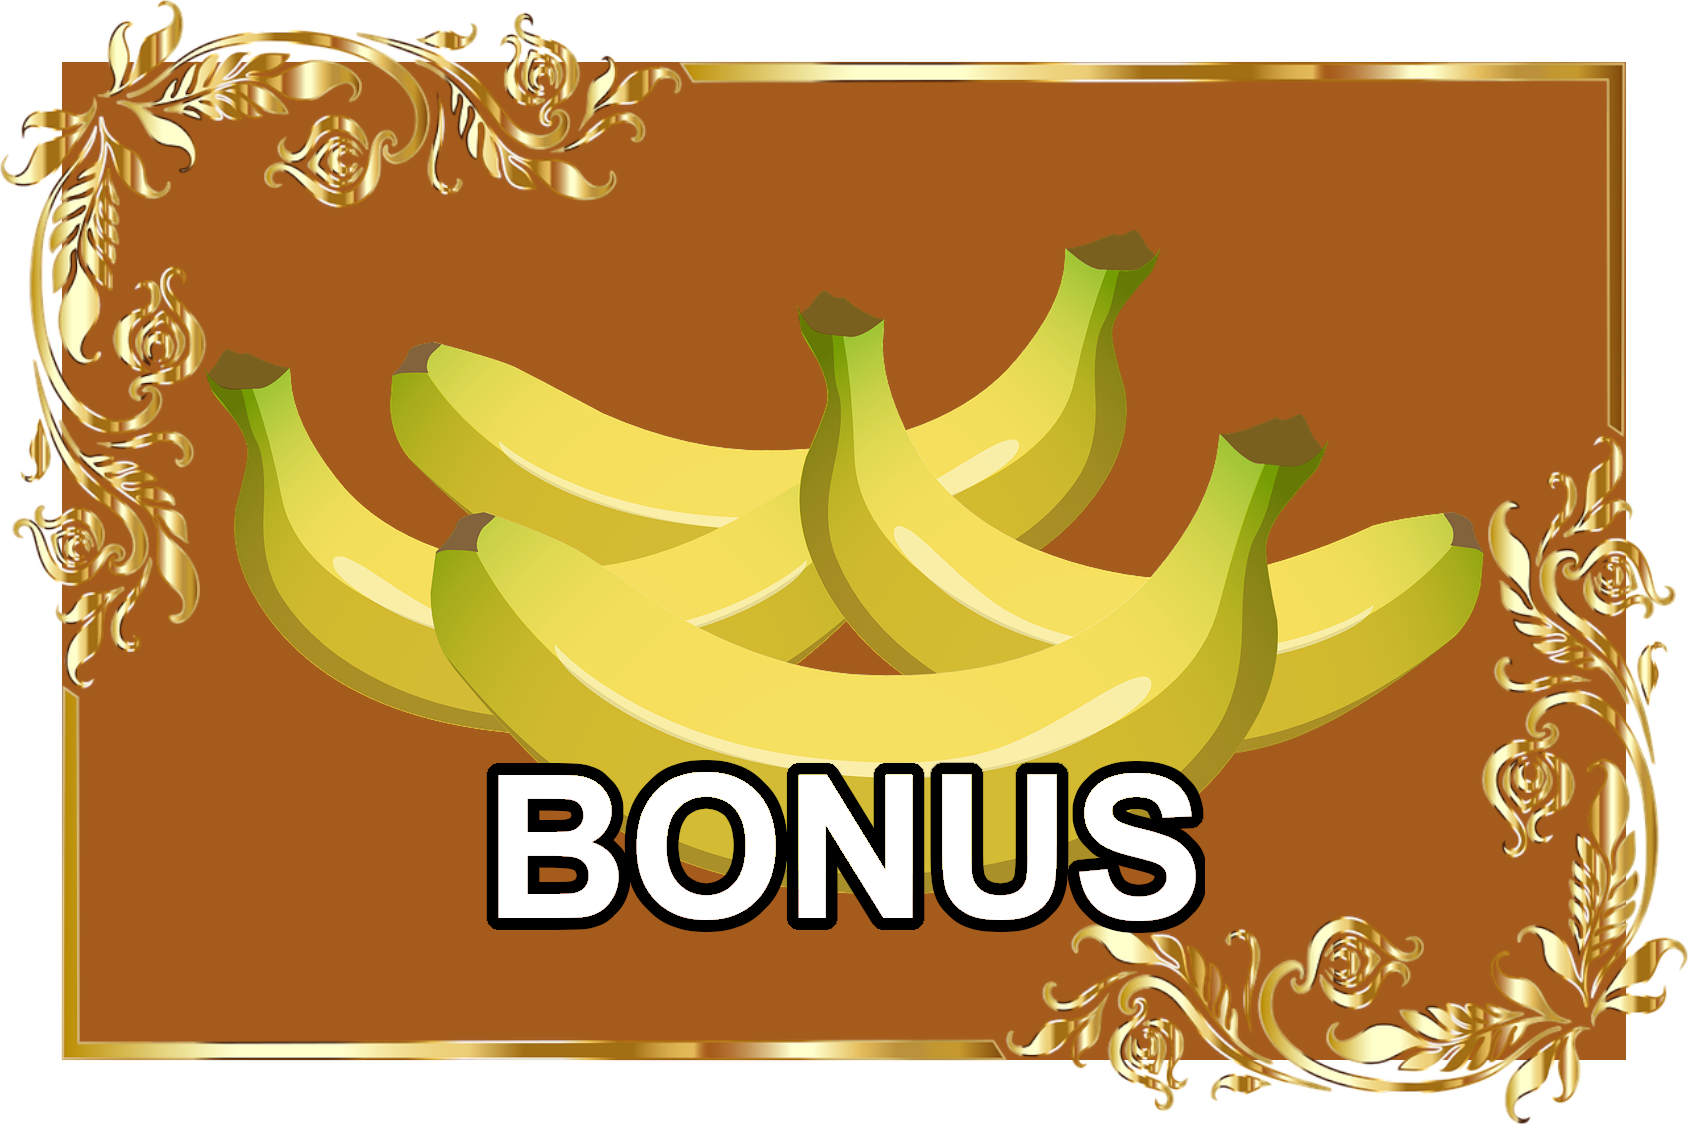
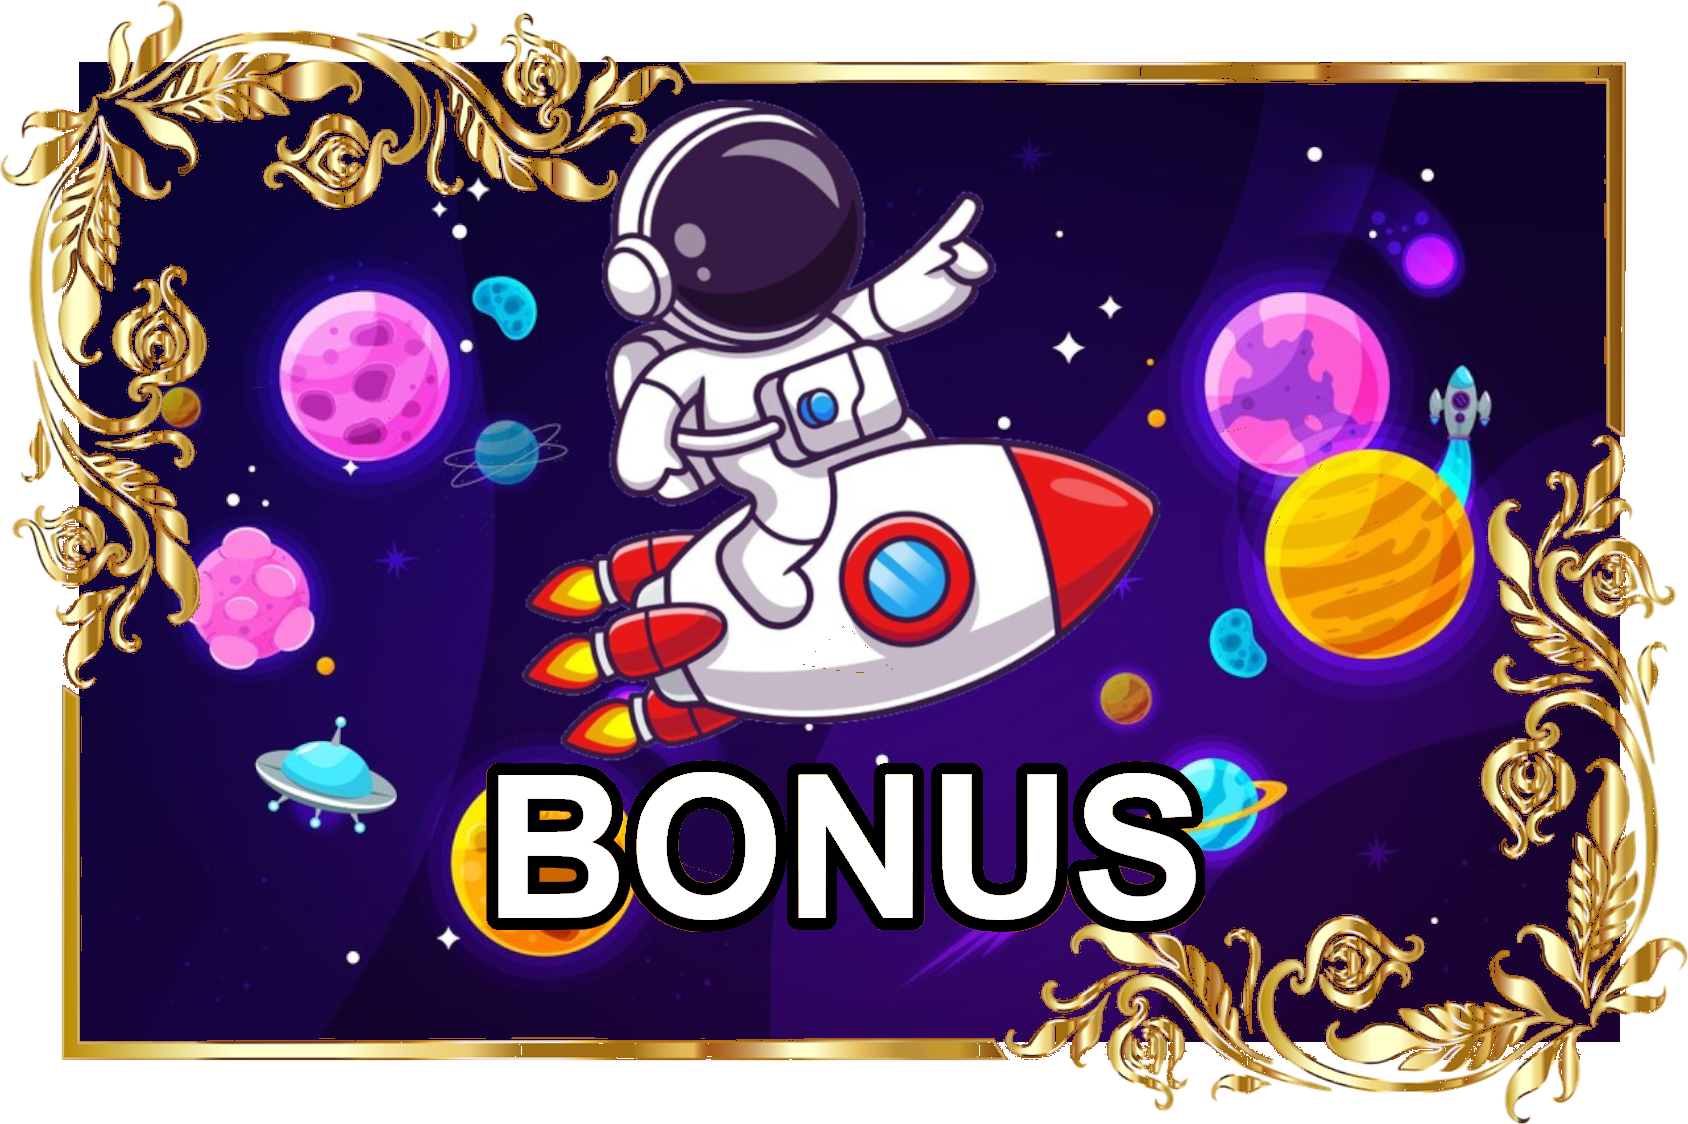
Space Warriors Sprites

diff --git a/web/src/components/casino/Casino.tsx b/web/src/components/casino/Casino.tsx
@@ -458,7 +458,7 @@ export function CasinoControls() {
 }
 
 export function CasinoGameDisplay() {
-    const [currentGame, setCurrentGame] = useState<CasinoGame | null>(null);
+    // const [currentGame, setCurrentGame] = useState<CasinoGame | null>(null);
     // const [currentGame, setCurrentGame] = useState<CasinoGame | null>(
     //     {
     //         type: "baccarat",
@@ -505,81 +505,81 @@ export function CasinoGameDisplay() {
     //         }
     //     }
     // );
-    // const [currentGame, setCurrentGame] = useState<CasinoGame | null>({
-    //     type: "slots",
-    //     visible: false,
-    //     data: {
-    //         foldername: "bananabonanza",
-    //         headerTextImage: "header_title.png",
-    //         backgroundImage: "background.png",
-    //         reelCount: 5,
-    //         reelSymbols: 3,
-    //         paylineWinThreshold: 3,
-    //         bonusTriggerCount: 3,
-    //         bonusFreeSpins: 10,
-    //         bonusSymbol: "Bonus Symbol",
-    //         slotSymbols: {
-    //             "Bonus Symbol": {
-    //                 image: "bonus.png",
-    //                 reels: [5, 5, 1, 1, 1],
-    //                 pay: [0, 0, 0, 0, 0],
-    //             },
-    //             "Monkey": {
-    //                 image: "monkey.png",
-    //                 reels: [2, 2, 2, 2, 2],
-    //                 pay: [0, 0, 3, 7, 30],
-    //             },
-    //             "Coconut": {
-    //                 image: "coconut.png",
-    //                 reels: [3, 3, 3, 3, 3],
-    //                 pay: [0, 0, 1.5, 3.5, 10],
-    //             },
-    //             "Coconut Tree Bundle": {
-    //                 image: "tree_2.png",
-    //                 reels: [4, 4, 4, 4, 4],
-    //                 pay: [0, 0, 1.2, 2, 6],
-    //             },
-    //             "Coconut Tree": {
-    //                 image: "tree_1.png",
-    //                 reels: [5, 5, 5, 5, 5],
-    //                 pay: [0, 0, 0.8, 1.5, 4],
-    //             },
-    //             "Banana Bunch": {
-    //                 image: "banana_2.png",
-    //                 reels: [6, 6, 6, 6, 6],
-    //                 pay: [0, 0, 0.35, 0.6, 1.75],
-    //             },
-    //             "Banana": {
-    //                 image: "banana_1.png",
-    //                 reels: [7, 7, 7, 7, 7],
-    //                 pay: [0, 0, 0.2, 0.35, 1.25],
-    //             },
-    //         },
-    //         paylines: [
-    //             [1, 1, 1, 1, 1],
-    //             [0, 0, 0, 0, 0],
-    //             [2, 2, 2, 2, 2],
-    //             [0, 1, 2, 1, 0],
-    //             [2, 1, 0, 1, 2],
-    //             [1, 0, 0, 0, 1],
-    //             [1, 2, 2, 2, 1],
-    //             [0, 0, 1, 2, 2],
-    //             [2, 2, 1, 0, 0],
-    //             [1, 2, 1, 0, 1],
-    //             [1, 0, 1, 2, 1],
-    //             [0, 1, 1, 1, 0],
-    //             [2, 1, 1, 1, 2],
-    //             [0, 1, 0, 1, 0],
-    //             [2, 1, 2, 1, 2],
-    //             [1, 1, 0, 1, 1],
-    //             [1, 1, 2, 1, 1],
-    //             [0, 0, 2, 0, 0],
-    //             [2, 2, 0, 2, 2],
-    //             [0, 2, 2, 2, 0],
-    //         ],
-    //     },
-    // });
-    const [isGameVisible, setGameVisible] = useState<boolean>(false);
+    const [currentGame, setCurrentGame] = useState<CasinoGame | null>({
+        type: "slots",
+        visible: false,
+        data: {
+            foldername: "spacewarriors",
+            headerTextImage: "header_title.png",
+            backgroundImage: "background.png",
+            reelCount: 5,
+            reelSymbols: 3,
+            paylineWinThreshold: 3,
+            bonusTriggerCount: 3,
+            bonusFreeSpins: 10,
+            bonusSymbol: "Bonus Symbol",
+            slotSymbols: {
+                "Bonus Symbol": {
+                    image: "bonus.png",
+                    reels: [5, 5, 1, 1, 1],
+                    pay: [0, 0, 0, 0, 0],
+                },
+                "Monkey": {
+                    image: "monkey.png",
+                    reels: [2, 2, 2, 2, 2],
+                    pay: [0, 0, 3, 7, 30],
+                },
+                "Coconut": {
+                    image: "coconut.png",
+                    reels: [3, 3, 3, 3, 3],
+                    pay: [0, 0, 1.5, 3.5, 10],
+                },
+                "Coconut Tree Bundle": {
+                    image: "tree_2.png",
+                    reels: [4, 4, 4, 4, 4],
+                    pay: [0, 0, 1.2, 2, 6],
+                },
+                "Coconut Tree": {
+                    image: "tree_1.png",
+                    reels: [5, 5, 5, 5, 5],
+                    pay: [0, 0, 0.8, 1.5, 4],
+                },
+                "Banana Bunch": {
+                    image: "banana_2.png",
+                    reels: [6, 6, 6, 6, 6],
+                    pay: [0, 0, 0.35, 0.6, 1.75],
+                },
+                "Banana": {
+                    image: "banana_1.png",
+                    reels: [7, 7, 7, 7, 7],
+                    pay: [0, 0, 0.2, 0.35, 1.25],
+                },
+            },
+            paylines: [
+                [1, 1, 1, 1, 1],
+                [0, 0, 0, 0, 0],
+                [2, 2, 2, 2, 2],
+                [0, 1, 2, 1, 0],
+                [2, 1, 0, 1, 2],
+                [1, 0, 0, 0, 1],
+                [1, 2, 2, 2, 1],
+                [0, 0, 1, 2, 2],
+                [2, 2, 1, 0, 0],
+                [1, 2, 1, 0, 1],
+                [1, 0, 1, 2, 1],
+                [0, 1, 1, 1, 0],
+                [2, 1, 1, 1, 2],
+                [0, 1, 0, 1, 0],
+                [2, 1, 2, 1, 2],
+                [1, 1, 0, 1, 1],
+                [1, 1, 2, 1, 1],
+                [0, 0, 2, 0, 0],
+                [2, 2, 0, 2, 2],
+                [0, 2, 2, 2, 0],
+            ],
+        },
+    });
+    const [isGameVisible, setGameVisible] = useState<boolean>(true);
     useEffect(() => {
         const handleKeyDown = (event: KeyboardEvent) => {
             if (event.key === "Escape" || event.key === "Backspace") {
